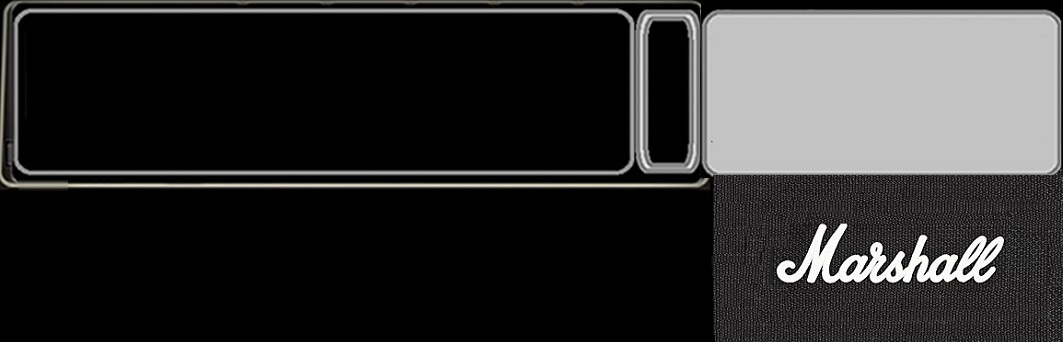
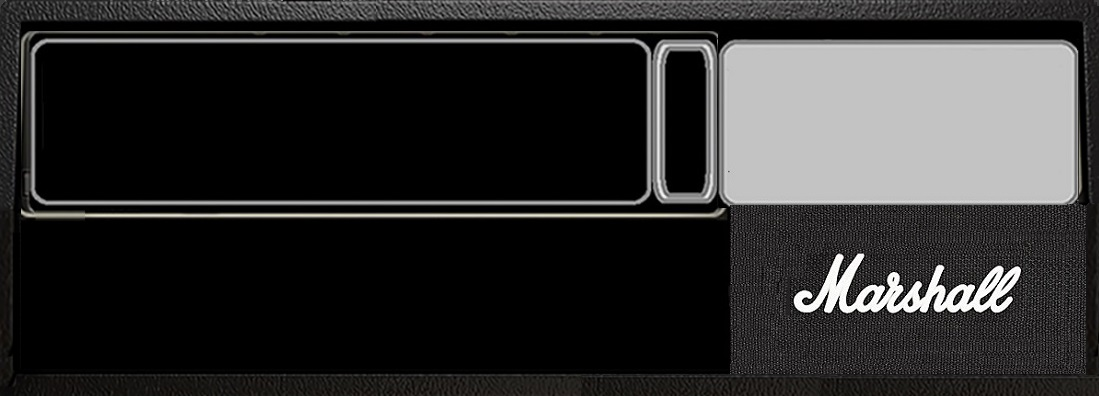
Amélioration image ampli vue utilisateur

diff --git a/AmpSim3/css/ampUserView.css b/AmpSim3/css/ampUserView.css
@@ -8,12 +8,11 @@
 	  -moz-user-select: none;
 	  -ms-user-select: none;
 	  user-select: none;
-
 	  background-image:url('../img/userViewAmpli.jpg');
     z-index:100;
     background-repeat: no-repeat;
-    background-position: 415px 120px;
-
+    background-position: 400px 90px;
+    padding-bottom:50px;
 	  display: flex;
 	  flex-direction: column;
 	  justify-content: space-around;
@@ -30,13 +29,11 @@
 	  -moz-user-select: none;
 	  -ms-user-select: none;
 	  user-select: none;
-	  
     background-image:url('../img/userViewAmpli.jpg');
     z-index:100;
     background-repeat: no-repeat;
-    background-position: 415px 120px;
-
-    
+    background-position: 400px 90px;
+    padding-bottom:50px;
 	  display: flex;
 	  flex-direction: column;
 	  justify-content: space-around;
